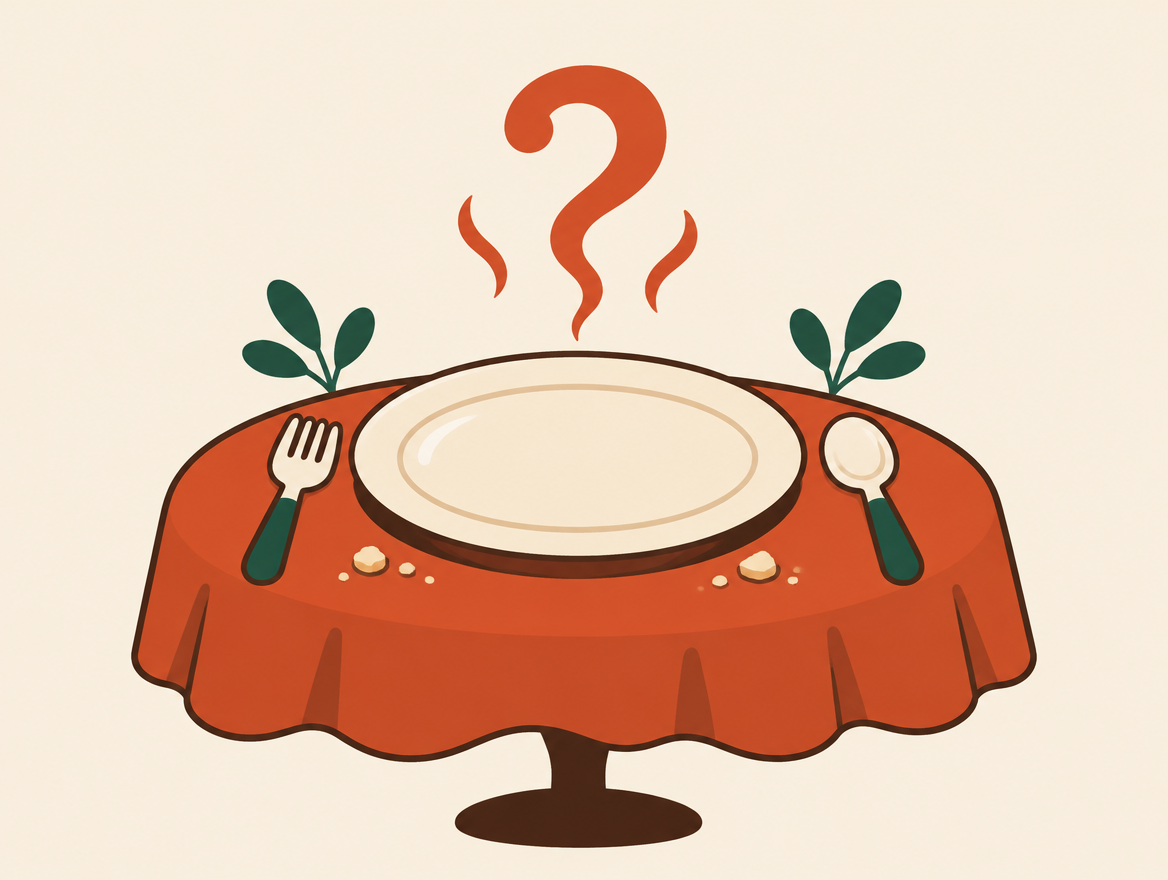
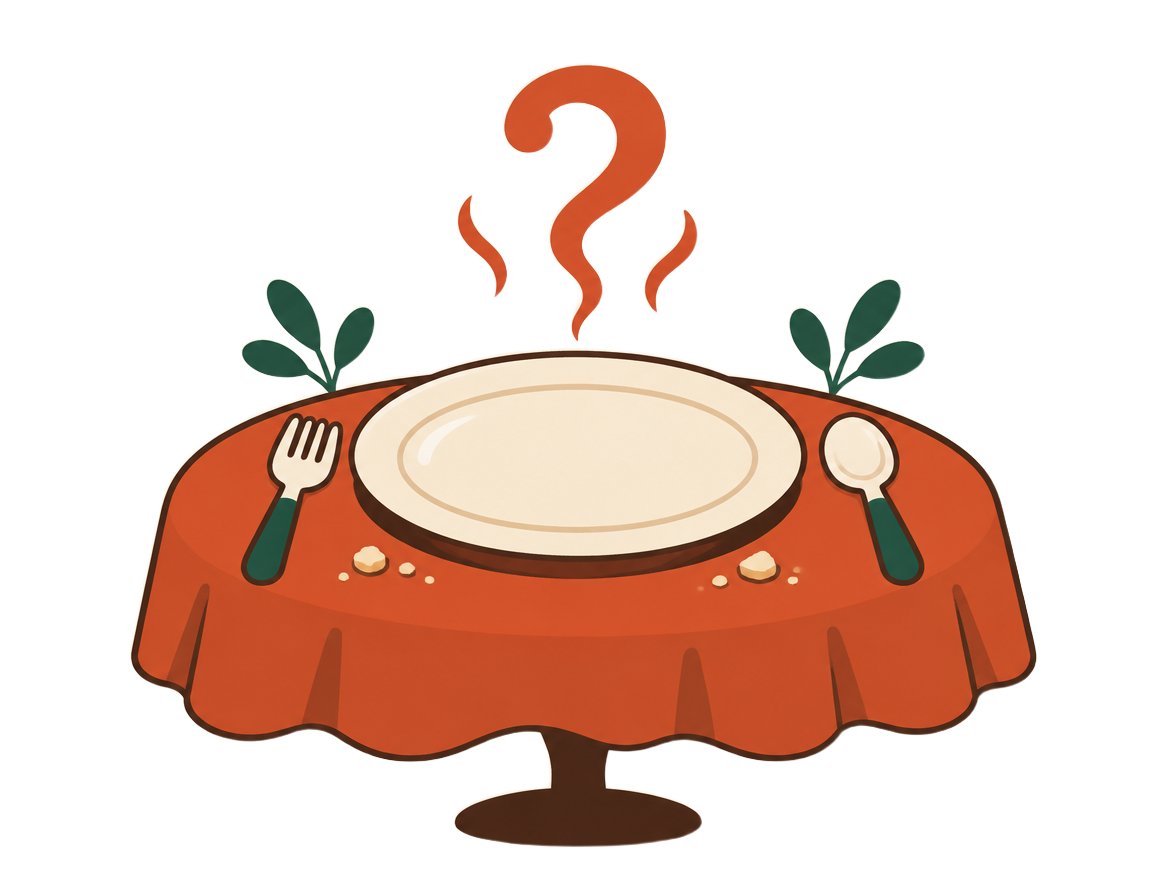
404: transparent illustration, visible 404 numeral on site
Claude-Session: https://claude.ai/code/session_01MyQKYrnNvQyBLNRKCMKDsa

diff --git a/apps/site/app/features/landing/components/NotFoundPage.tsx b/apps/site/app/features/landing/components/NotFoundPage.tsx
@@ -29,7 +29,7 @@ export function NotFoundPage({ locale }: NotFoundPageProps) {
     >
       <main className="mx-auto grid max-w-[1600px] grid-cols-12 gap-2">
         <Tile as="section" tone="brand" className="md:col-span-7 md:min-h-[calc(100vh-1rem)]">
-          <div aria-hidden className="lp-display lp-word text-primary-foreground">
+          <div aria-hidden className="lp-display lp-word !text-primary-foreground">
             404
           </div>
           <div className="flex flex-col gap-4">
